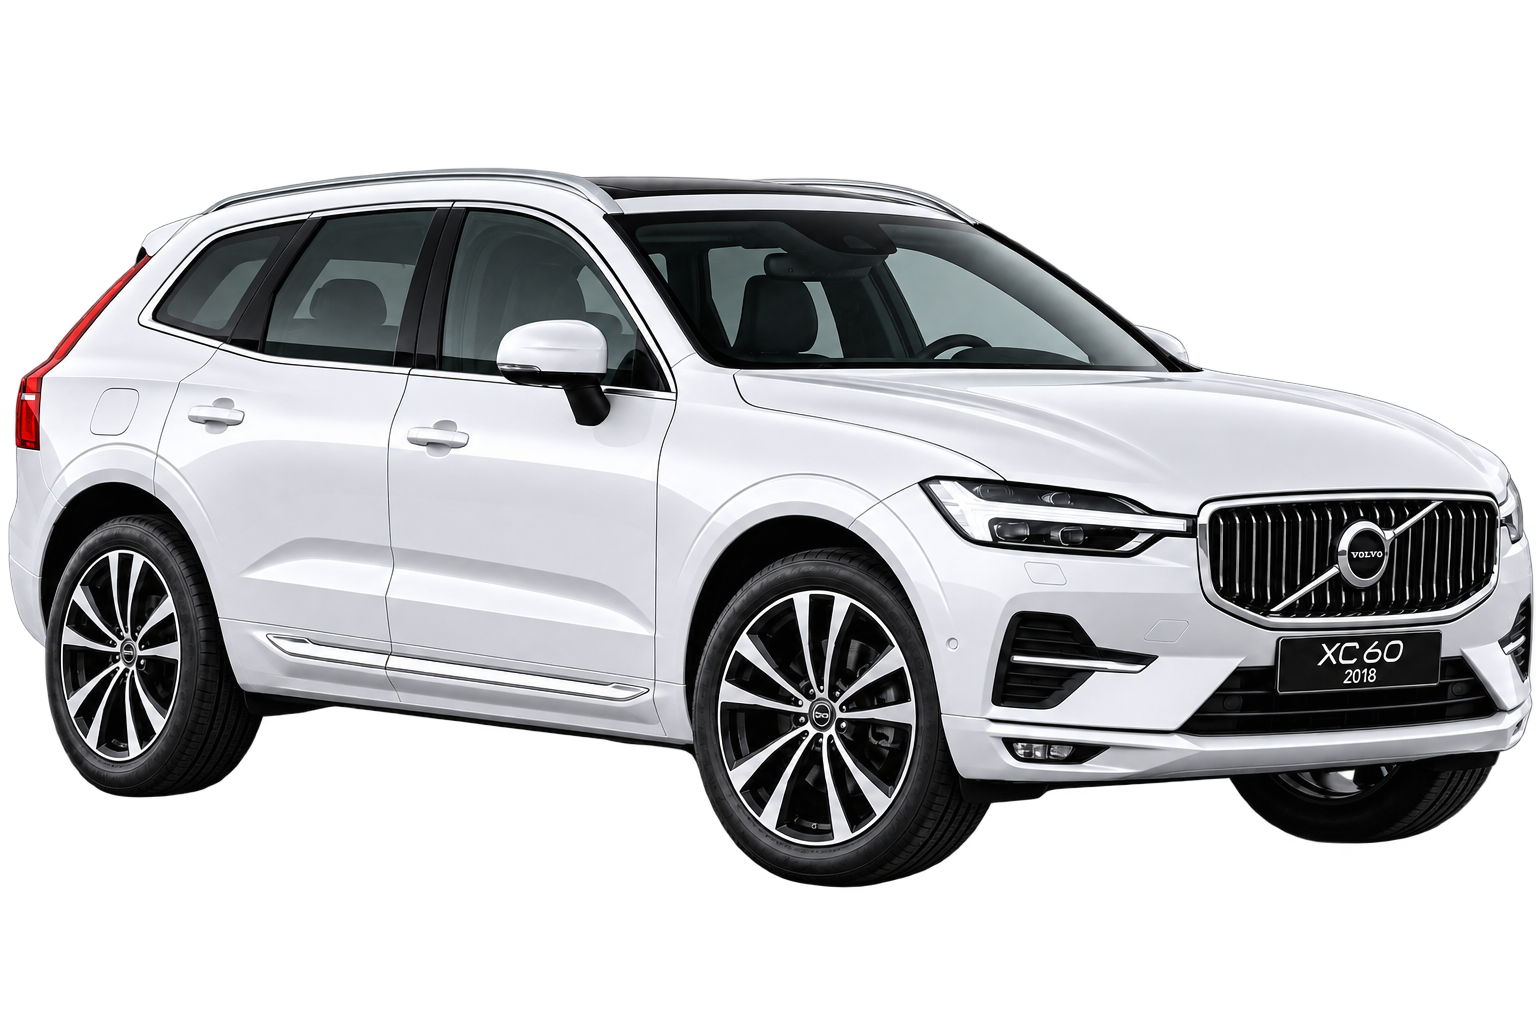
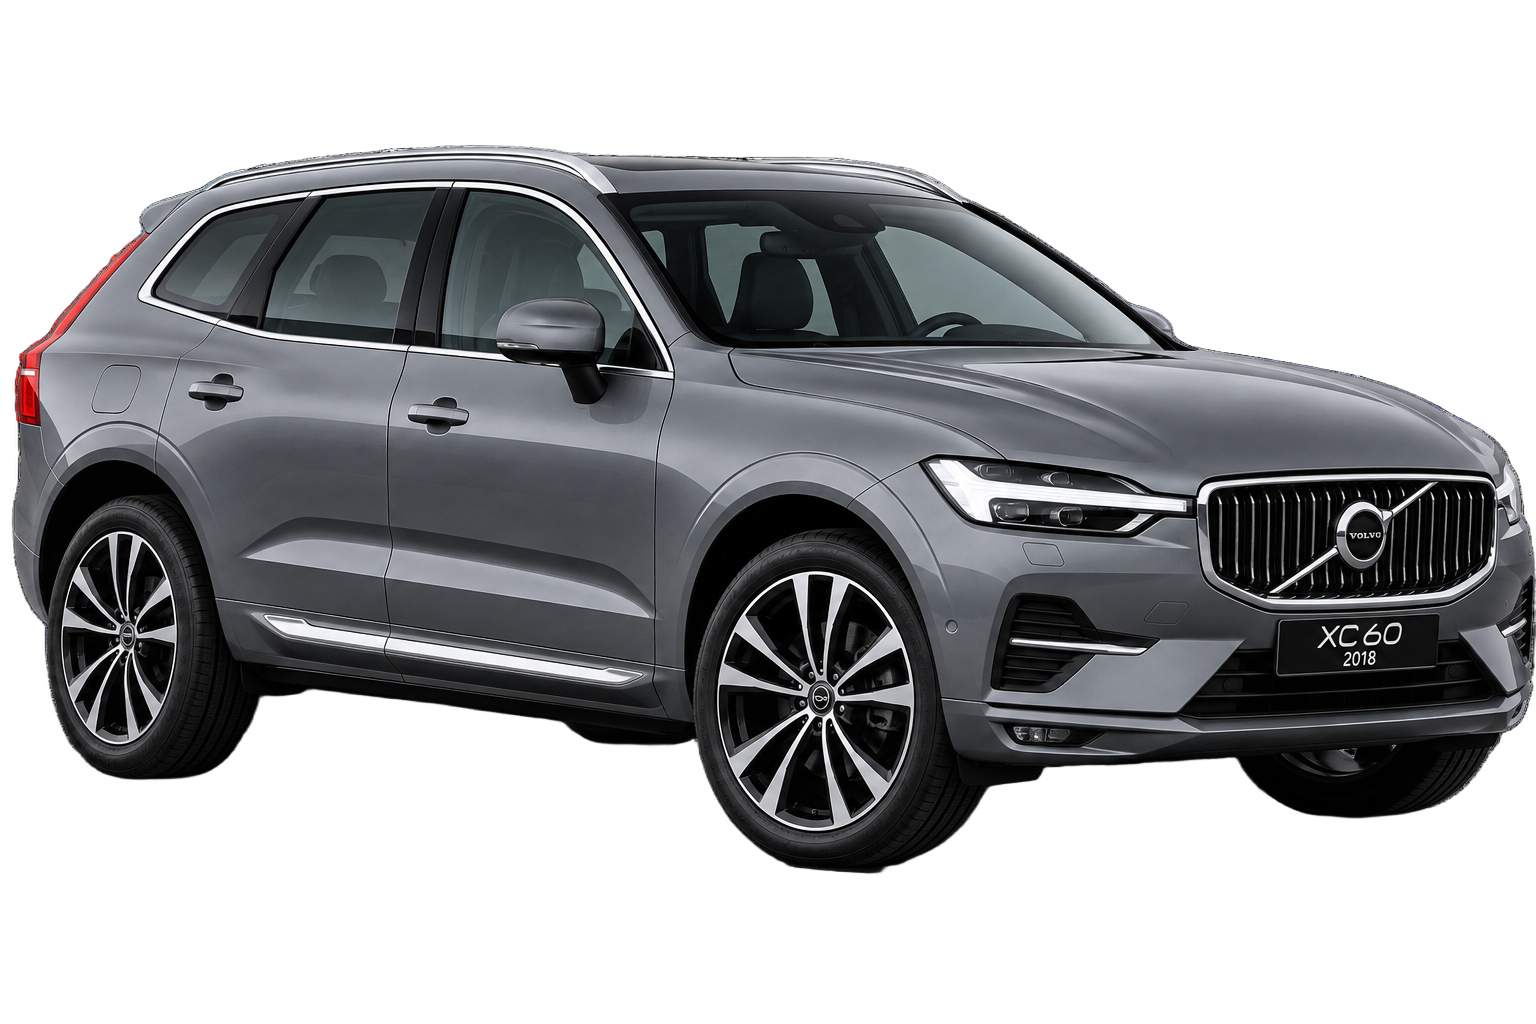
Use the original silver Passat and Volvo photos instead of the white cutouts.

diff --git a/index.html b/index.html
@@ -539,7 +539,7 @@ very special.</h1>
 
           <article class="car-card reveal" data-category="car" data-car-id="passat" data-vehicle="Volkswagen Passat">
             <div class="car-card__media car-card__media--passat">
-              <img src="assets/passat-auto.png" alt="Volkswagen Passat for rent at VS Rent a Car Skopje" width="640" height="400" />
+              <img src="assets/passat2.png" alt="Volkswagen Passat for rent at VS Rent a Car Skopje" width="640" height="400" />
             </div>
             <div class="car-card__body">
               <h3>Volkswagen Passat</h3>
@@ -553,7 +553,7 @@ very special.</h1>
 
           <article class="car-card reveal" data-category="car" data-car-id="passat_auto" data-vehicle="Volkswagen Passat Automatic">
             <div class="car-card__media car-card__media--passat">
-              <img src="assets/passat-auto.png" alt="Volkswagen Passat Automatic for rent at VS Rent a Car Skopje" width="640" height="400" />
+              <img src="assets/passat2.png" alt="Volkswagen Passat Automatic for rent at VS Rent a Car Skopje" width="640" height="400" />
             </div>
             <div class="car-card__body">
               <h3>Volkswagen Passat Automatic</h3>

diff --git a/script.js b/script.js
@@ -94,7 +94,7 @@ const FLEET = {
   },
   passat: {
     name: "Volkswagen Passat",
-    image: "assets/passat-auto.png",
+    image: "assets/passat2.png",
     price: 49,
     seats: 5,
     doors: 5,
@@ -117,7 +117,7 @@ const FLEET = {
   },
   passat_auto: {
     name: "Volkswagen Passat Automatic",
-    image: "assets/passat-auto.png",
+    image: "assets/passat2.png",
     price: 49,
     seats: 5,
     doors: 5,
